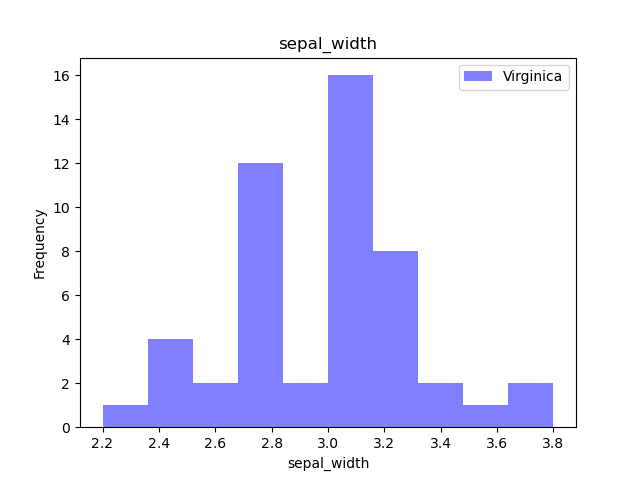
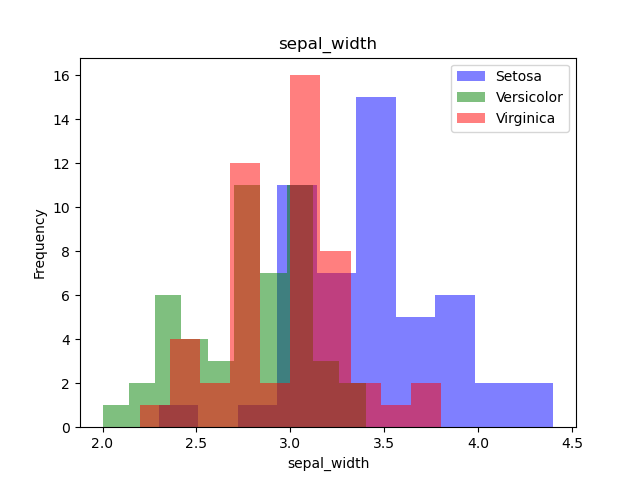
Adding function for histograms to pands-project, will work on making .png files pretty next

Changed region(s): [[0.1562, 0.1562, 0.8125, 0.9375], [0.6875, 0.125, 0.875, 0.2812], [0.8438, 0.9062, 0.9062, 0.9375]]

diff --git a/analysis.py b/analysis.py
@@ -149,22 +149,46 @@ plt.savefig("petal_width_histogram.png")
 #Attempting to create a function which will create histograms for each variable, possible need to look at coloring the 
 #different species differently.
 
-def create_histogram(data, variable, species):
+#Create a dictionary to store the species and the data for each species, so that this can be used in the function to create the histograms
+#for all species on the same plot
+
+species_data = {"Setosa": setosa, "Versicolor": versicolor, "Virginica": virginica}
+
+#Create a function to create histograms for each variable
+
+def create_histogram(df, variable):
+    setosa = df[df.species == "Iris-setosa"]
+    versicolor = df[df.species=='Iris-versicolor']
+    virginica = df[df.species=='Iris-virginica']
+    
     fig, ax = plt.subplots()
-    ax.hist(data[variable], bins=10, label=species, color="blue", alpha=0.5) 
+
+    ax.hist(setosa[variable], bins=10, label="Setosa", color="blue", alpha=0.5)
+    ax.hist(versicolor[variable], bins=10, label="Versicolor", color="green", alpha=0.5)
+    ax.hist(virginica[variable], bins=10, label="Virginica", color="red", alpha=0.5)
+
+    #Set the x and y axis labels
     ax.set_xlabel(variable)
     ax.set_ylabel("Frequency")
+    
+    #Add a title
     ax.set_title(variable)
+
+    #Add a legend
     ax.legend()
+
+    #Save the plot as a .png file
     plt.savefig(variable + "_histogram.png")
 
+#Main program
+#Call the function to create histograms for each variable
+create_histogram(df, "sepal_length")
+create_histogram(df, "sepal_width")
+create_histogram(df, "petal_length")
+create_histogram(df, "petal_width")
 
-#Main program to call the function and create three histograms for each variable
 
-for variable in df.columns[:-1]:
-    create_histogram(setosa, variable, "Setosa")
-    create_histogram(versicolor, variable, "Versicolor")
-    create_histogram(virginica, variable, "Virginica")
+
 
 
 
